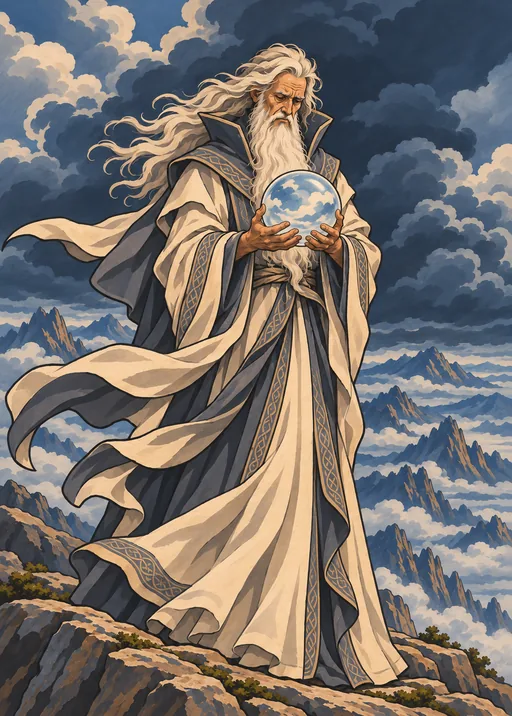
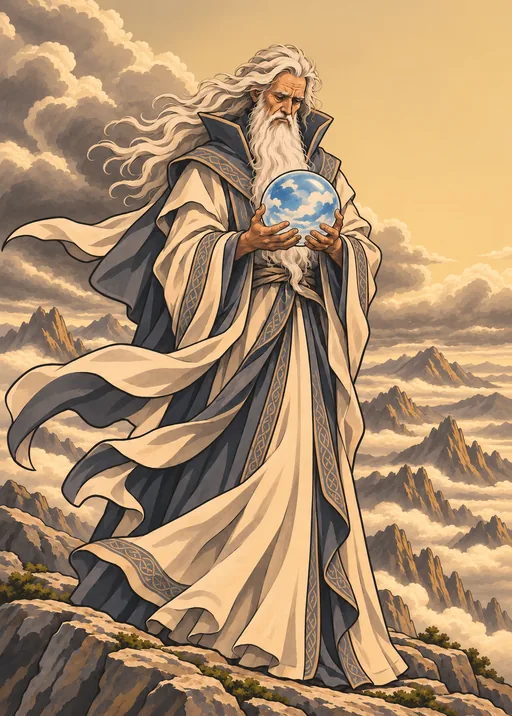
Card titles follow the artwork's gender names; one Fool; new Queen, Wizardess and air Wizard
- King/Queen, Heir/Heiress, Priest/Priestess, Wizard/Wizardess, Duke/Duchess and Shepherd/Shepherdess by element, from the foretoldv2 manifest
- Card pool rebuilt from the manifest; all four Fools share fire's picture
- New fire Queen, earth Wizardess, air Wizard and Fool art

diff --git a/src/visualizer/card-decks.ts b/src/visualizer/card-decks.ts
@@ -25,12 +25,37 @@ export interface CardDeck {
   symbols: boolean;
 }
 
-type TitleKey = `sabotage.rank.${number}` | `roleplay.rank.${number}` | "roleplay.duke" | "roleplay.duchess" | "roleplay.shepherdess";
+type TitleKey =
+  | `sabotage.rank.${number}`
+  | `roleplay.rank.${number}`
+  | "cardtitle.king"
+  | "cardtitle.queen"
+  | "cardtitle.heiress"
+  | "cardtitle.priestess"
+  | "roleplay.duke"
+  | "roleplay.duchess"
+  | "roleplay.shepherdess";
 
-// Roleplay's 11 is a Duke or a Duchess, and its 5 a Shepherd or a Shepherdess,
-// by the element it is drawn as.
-const DUCHESSES = ["air", "fire"];
-const SHEPHERDESSES = ["water", "earth"];
+// Some pictures are titled by the element they are drawn as, as the artwork is
+// (source-images/foretoldv2/manifest.json): the feminine title for the elements
+// listed, the masculine one for the rest. A picture not here keeps its
+// deck's own title for its number.
+const BY_ELEMENT: Record<string, { feminine: string[]; feminineKey: TitleKey; masculineKey?: TitleKey }> = {
+  priest: { feminine: ["water", "earth"], feminineKey: "cardtitle.priestess" },
+  heir: { feminine: ["fire", "air"], feminineKey: "cardtitle.heiress" },
+  monarch: { feminine: ["fire", "air"], feminineKey: "cardtitle.queen", masculineKey: "cardtitle.king" },
+  shepherd: { feminine: ["water", "earth"], feminineKey: "roleplay.shepherdess" },
+  noble: { feminine: ["air", "fire"], feminineKey: "roleplay.duchess", masculineKey: "roleplay.duke" },
+};
+
+const titled = (
+  pictures: readonly string[],
+  fallback: (value: number) => TitleKey,
+): CardDeck["titleKey"] => (value, element) => {
+  const rule = BY_ELEMENT[pictures[value - 1]];
+  if (!rule) return fallback(value);
+  return rule.feminine.includes(element) ? rule.feminineKey : (rule.masculineKey ?? fallback(value));
+};
 
 const DECK_A_PICTURES = [
   "peasant",
@@ -68,7 +93,7 @@ const DECK_B_PICTURES = [
 
 const deckA = (symbols: boolean): CardDeck => ({
   picture: (value) => DECK_A_PICTURES[value - 1],
-  titleKey: (value) => `sabotage.rank.${value}`,
+  titleKey: titled(DECK_A_PICTURES, (value) => `sabotage.rank.${value}`),
   symbols,
 });
 
@@ -77,11 +102,7 @@ const DECKS: Record<GameMode, CardDeck> = {
   sabotage: deckA(true),
   roles: {
     picture: (value) => DECK_B_PICTURES[value - 1],
-    titleKey: (value, element) => {
-      if (value === 11) return DUCHESSES.includes(element) ? "roleplay.duchess" : "roleplay.duke";
-      if (value === 5 && SHEPHERDESSES.includes(element)) return "roleplay.shepherdess";
-      return `roleplay.rank.${value}`;
-    },
+    titleKey: titled(DECK_B_PICTURES, (value) => `roleplay.rank.${value}`),
     symbols: false,
   },
 };

diff --git a/src/modes/sabotage/deck/sabotage-card-loader.ts b/src/modes/sabotage/deck/sabotage-card-loader.ts
@@ -25,8 +25,12 @@ const backUrl = (): string => cardFile("back/backCard.webp");
 // visualizer/card-decks.ts): src/assets/card-pool/<element>/<element>-<picture>.webp.
 const cardArtName = (card: Card): string => pictureOf(activeDeck(), card);
 
+// The Fool has no element: one picture, fire's, is every suit's, so the four
+// Fools share one texture.
+const FOOL_ELEMENT = "fire";
+
 export function cardArtUrl(card: Card): string {
-  const element = cardElement(card);
+  const element = card.value === 0 ? FOOL_ELEMENT : cardElement(card);
   return poolFile(`${element}/${element}-${cardArtName(card)}.webp`);
 }
 
@@ -68,9 +72,9 @@ function cardSymbol(card: Card): PowerSymbol | undefined {
 }
 
 // The card's title, in the language being played: its rank in the hierarchy,
-// or Fool and Wizard for the two outside it. Earth's and air's Wizards are
-// women, so those two are the Sorceress; fire's and water's the Sorcerer.
-const SORCERESSES = ["earth", "air"];
+// or Fool and Wizard for the two outside it. Fire's and earth's Wizards are women, the
+// Wizardess; air's and water's are Wizards.
+const SORCERESSES = ["fire", "earth"];
 
 function cardTitle(card: Card): string {
   if (card.value === 0) return t("sabotage.fool");

diff --git a/src/i18n/de.ts b/src/i18n/de.ts
@@ -541,6 +541,10 @@ export const de: Record<MessageKey, string> = {
   "roleplay.rank.9": "Krieger",
   "roleplay.rank.10": "Spieler",
   // The 11 is a Duke or a Duchess by element (visualizer/card-decks.ts).
+  "cardtitle.king": "König",
+  "cardtitle.queen": "Königin",
+  "cardtitle.heiress": "Erbin",
+  "cardtitle.priestess": "Priesterin",
   "roleplay.duke": "Herzog",
   "roleplay.shepherdess": "Hirtin",
   "roleplay.duchess": "Herzogin",

diff --git a/src/i18n/en.ts b/src/i18n/en.ts
@@ -540,6 +540,10 @@ export const en = {
   "roleplay.rank.9": "Warrior",
   "roleplay.rank.10": "Gambler",
   // The 11 is a Duke or a Duchess by element (visualizer/card-decks.ts).
+  "cardtitle.king": "King",
+  "cardtitle.queen": "Queen",
+  "cardtitle.heiress": "Heiress",
+  "cardtitle.priestess": "Priestess",
   "roleplay.duke": "Duke",
   "roleplay.shepherdess": "Shepherdess",
   "roleplay.duchess": "Duchess",
